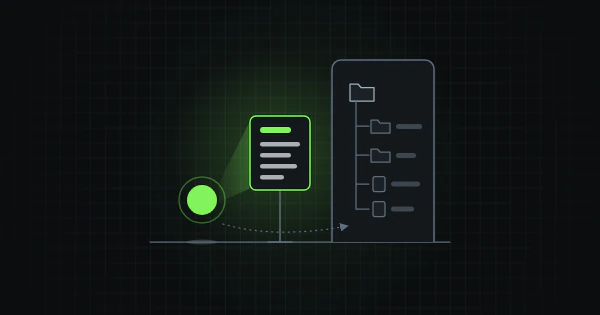
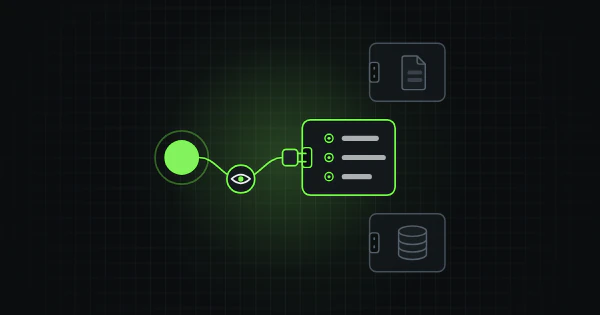
content(blog): part 5 of the series, "MCP, how an AI agent reaches your other systems" / "MCP, så når AI-agenten era andra system", gets its own cover instead of part 2's placeholder: an agent (part 1's green circle with its halo) joined by one cable to the socket of an issue list, lit green, with a

Changed region(s): [[0.24, 0.1143, 0.75, 0.8857]]

diff --git a/src/sv/blog/posts/mcp-reaching-your-systems.md b/src/sv/blog/posts/mcp-reaching-your-systems.md
@@ -2,7 +2,7 @@
 title: MCP, så når AI-agenten era andra system
 description: Femte delen i serien "Från AI-chatt till agentiskt arbete" – vad MCP är, varför varje server du kopplar in är ett beslut om förtroende, hur du gör en första koppling som bara får läsa och vad du gör när den inte fungerar.
 image: cover.png                 # en PNG på 1200 × 630 i artikelns mediemapp
-imageAlt: En AI-agent, en grön cirkel, står vid ingången till ett projekt och läser en kort lapp på en stolpe innan den går in. Bakom dörröppningen ligger projektets mappar och filer.
+imageAlt: En AI-agent, en grön cirkel, är kopplad med en enda sladd till en ärendelista, instoppad i listans uttag. Ett litet öga på sladden visar att kopplingen bara får läsa. Längre bak till höger sitter en dokumentationssida och en databas, båda grå, var och en med ett tomt uttag och utan koppling.
 date: 2026-10-30
 category: ai-journey             # app-development | ai-journey
 translationKey: mcp-reaching-your-systems

diff --git a/src/en/blog/posts/mcp-reaching-your-systems.md b/src/en/blog/posts/mcp-reaching-your-systems.md
@@ -2,7 +2,7 @@
 title: MCP, how an AI agent reaches your other systems
 description: The fifth part of the series "From AI chat to agentic work" — what MCP is, why every server you connect is a decision about trust, how to make a first connection that can only read and what to do when it does not work.
 image: cover.png                 # a 1200 × 630 PNG in the article's media directory
-imageAlt: An AI agent, a green circle, stands at the entrance of a project and reads a short note card on a post before it steps in. Behind the doorway lie the project's folders and files.
+imageAlt: An AI agent, a green circle, is joined by one cable to an issue list, plugged into the list's socket. A small eye on the cable shows that the connection can only read. Set back to the right, a documentation page and a database, both grey, each have an empty socket and are not connected.
 date: 2026-10-30
 category: ai-journey             # app-development | ai-journey
 translationKey: mcp-reaching-your-systems
